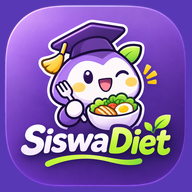
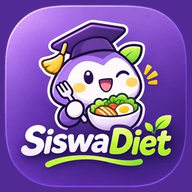
Add files via upload

diff --git a/index.html b/index.html
@@ -5,7 +5,7 @@
 <meta name="siswadiet-build" content="28">
 <meta name="apple-mobile-web-app-status-bar-style" content="black-translucent">
 <title>SiswaDiet</title>
-<link rel="manifest" href="manifest.json"><link rel="icon" href="icon-192.png"><link rel="apple-touch-icon" href="icon-192.png">
+<link rel="manifest" href="manifest.json?v=logo2"><link rel="icon" href="icon-192.png?v=logo2" sizes="192x192" type="image/png"><link rel="apple-touch-icon" sizes="180x180" href="apple-touch-icon.png?v=logo2">
 <meta name="apple-mobile-web-app-capable" content="yes"><meta name="mobile-web-app-capable" content="yes"><meta name="apple-mobile-web-app-title" content="SiswaDiet">
 <link href="https://fonts.googleapis.com/css2?family=Plus+Jakarta+Sans:wght@400;600;800&display=swap" rel="stylesheet">
 <style>
@@ -153,7 +153,7 @@ html:has(.auth-shell),body:has(.auth-shell){overflow:hidden;overscroll-behavior:
 .auth-view{width:min(100%,400px);margin:auto;display:grid;gap:clamp(12px,2.4dvh,24px);text-align:center}
 .auth-brand{display:grid;justify-items:center;gap:6px}
 .auth-logo-frame{display:grid;place-items:center;width:clamp(68px,11dvh,100px);aspect-ratio:1;border:1px solid var(--bd);border-radius:26%;background:var(--card);box-shadow:0 3px 8px rgba(41,21,59,.07);margin-bottom:8px}
-.auth-logo-frame img{display:block;width:78%;height:78%;object-fit:contain}
+.auth-logo-frame img{display:block;width:90%;height:90%;object-fit:contain}
 .auth-brand h1{font-size:clamp(24px,6.65vw,30px);letter-spacing:-.045em}
 .auth-brand p{color:var(--mut);font-size:13px}
 .auth-form.card{margin:0;padding:clamp(13px,4vw,22px);text-align:left;box-shadow:0 3px 10px rgba(41,21,59,.08);border-radius:24px;display:grid;gap:12px}
